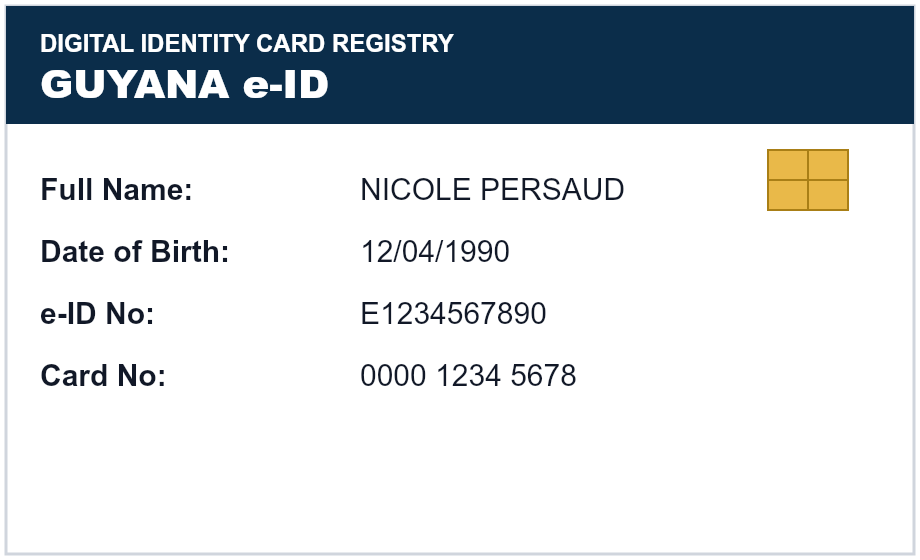
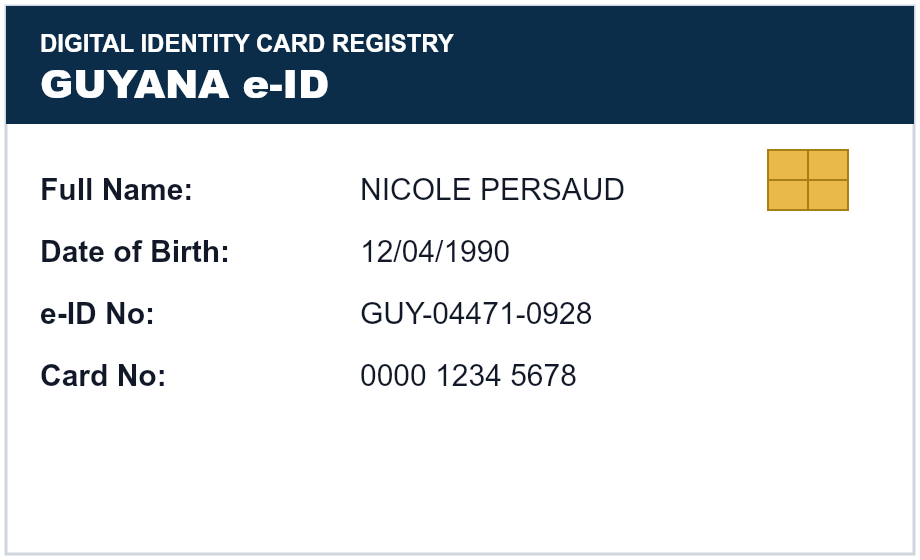
fix: enforce MoPS 3-5-4 e-ID number format (1.1)

Changed region(s): [[0.3957, 0.5161, 0.6391, 0.5768]]

diff --git a/src/state/govRegistry.js b/src/state/govRegistry.js
@@ -5,7 +5,7 @@
 //
 // Two demo citizens, each with fully self-consistent details (no value is
 // shared or mismatched across a person's documents):
-//   • Nicole Persaud — already has an e-ID (E1234567890)
+//   • Nicole Persaud — already has an e-ID (GUY-04471-0928)
 //   • John Doe       — no e-ID yet, but is on record with other documents
 //
 // The sample documents in public/sample-docs/ are generated from these exact
@@ -41,7 +41,8 @@ export const GOV_CITIZENS = [
 
     // Identity documents on record
     hasEid: true,
-    eidNo: 'E1234567890',
+    // 3-5-4 format supplied by MoPS — the confirmed standard (backlog 1.1).
+    eidNo: 'GUY-04471-0928',
     eidCardNo: '0000 1234 5678', // number printed on the physical smart card
     nationalId: 'N1234567890',
     passport: 'P1234567890',
@@ -90,8 +91,8 @@ const DOC_FIELD = {
   "Driver's licence": 'driversLicence',
 };
 
-// Loose normaliser so "E1234567890", "e1234567890" and "e-123 456 7890" all
-// compare equal — real cards are read/typed with inconsistent spacing.
+// Loose normaliser so "GUY-04471-0928", "guy 04471 0928" and "GUY044710928"
+// all compare equal — real cards are read/typed with inconsistent spacing.
 function norm(value) {
   return String(value ?? '').replace(/[\s-]/g, '').toUpperCase();
 }
@@ -114,7 +115,7 @@ export function findByDocument(type, number) {
 }
 
 // Look a citizen up by their e-ID — accepts either the printed e-ID number
-// (E1234567890) or the long card number (0000 1234 5678).
+// (GUY-04471-0928, the MoPS 3-5-4 format) or the long card number (0000 1234 5678).
 export function findByEid(value) {
   if (!value) return null;
   const n = norm(value);

diff --git a/src/overlays/auth/AuthFlow.jsx b/src/overlays/auth/AuthFlow.jsx
@@ -335,7 +335,8 @@ export default function AuthFlow({ gate = false }) {
       try {
         const text = await recognizeImage(file);
         const parsed = parseFields(text);
-        const num = parsed.documentNumber || (text.match(/\bE\d{9,10}\b/i)?.[0]) || '';
+        // e-ID numbers follow the MoPS 3-5-4 format, e.g. GUY-04471-0928 (backlog 1.1).
+        const num = parsed.documentNumber || (text.match(/\b[A-Z]{2,3}-?\d{5}-?\d{4}\b/i)?.[0]) || '';
         const citizen = findByEid(num);
         if (!citizen) {
           setSt((s) => ({ ...s, authStep: 'eid-signin', eidSignInError: "We couldn't read a known e-ID from that image. Try tapping the card, or create an account." }));

diff --git a/src/overlays/cards/EidCard.jsx b/src/overlays/cards/EidCard.jsx
@@ -6,7 +6,8 @@ import { REGIONS } from '../../state/mockData';
 
 // Invented locally — mockData.js has no eID number field. Kept in sync with
 // the literal used on the Vault wallet card.
-const EID_NUMBER = 'GUY-0447-1029';
+// MoPS 3-5-4 e-ID format — the confirmed standard (backlog 1.1).
+const EID_NUMBER = 'GUY-04471-0928';
 
 // Deterministic QR-look grid: three finder squares (corners) + pseudo-random
 // fill elsewhere, ported from the prototype's own generator. Not a real,

diff --git a/src/overlays/auth/authData.js b/src/overlays/auth/authData.js
@@ -22,7 +22,7 @@ export const GOV_ID_TYPES = [
 ];
 
 export const GOV_ID_PLACEHOLDER = {
-  'e-ID': 'e.g. GY-4471-0928', TIN: 'e.g. 1234-5678', 'National ID': 'e.g. 884 213 004',
+  'e-ID': 'e.g. GUY-04471-0928', TIN: 'e.g. 1234-5678', 'National ID': 'e.g. 884 213 004',
   Passport: 'e.g. R0123456', "Driver's licence": 'e.g. DL-884213',
 };
 export const GOV_ID_TITLE = {

diff --git a/src/screens/Vault.jsx b/src/screens/Vault.jsx
@@ -16,8 +16,8 @@ const DOC_TYPES = [
   { id: 'other', label: 'Other document', icon: 'file' },
 ];
 
-// Invented locally — mockData.js has no eID number field.
-const EID_NUMBER = 'GUY-0447-1029';
+// Display fallback only — MoPS 3-5-4 e-ID format (backlog 1.1).
+const EID_NUMBER = 'GUY-04471-0928';
 
 function buildWalletCards(persona) {
   const cards = [];
